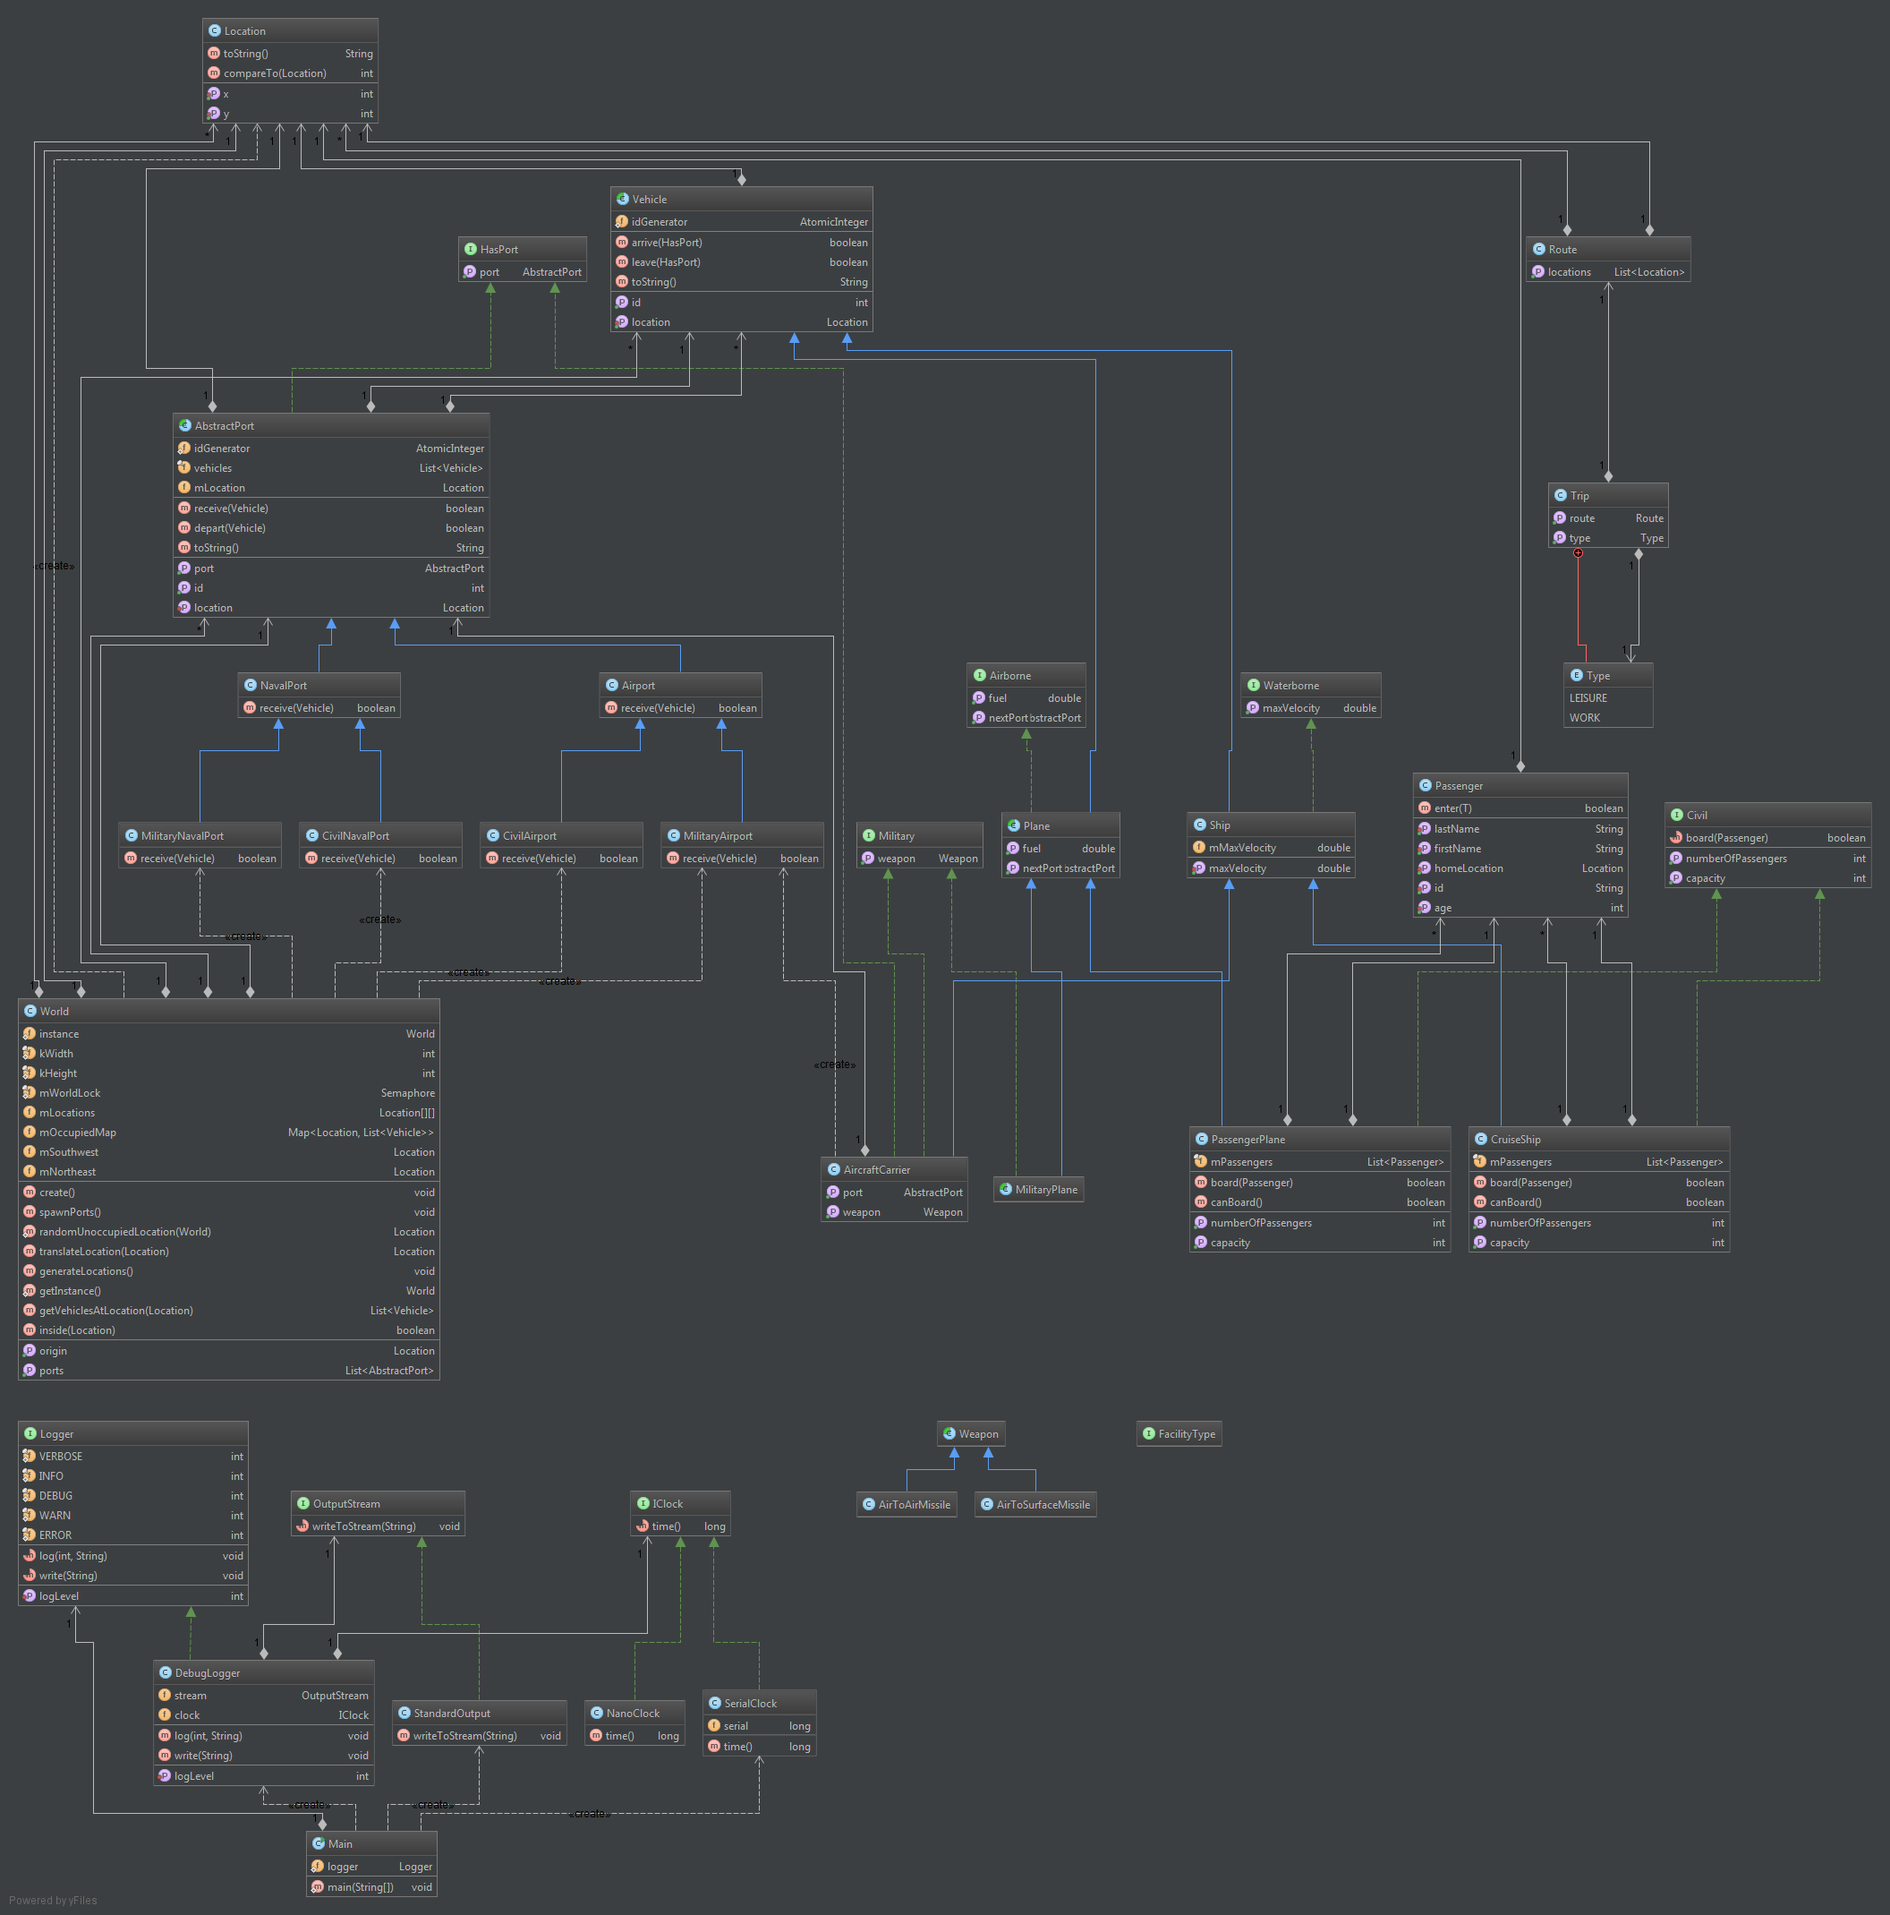
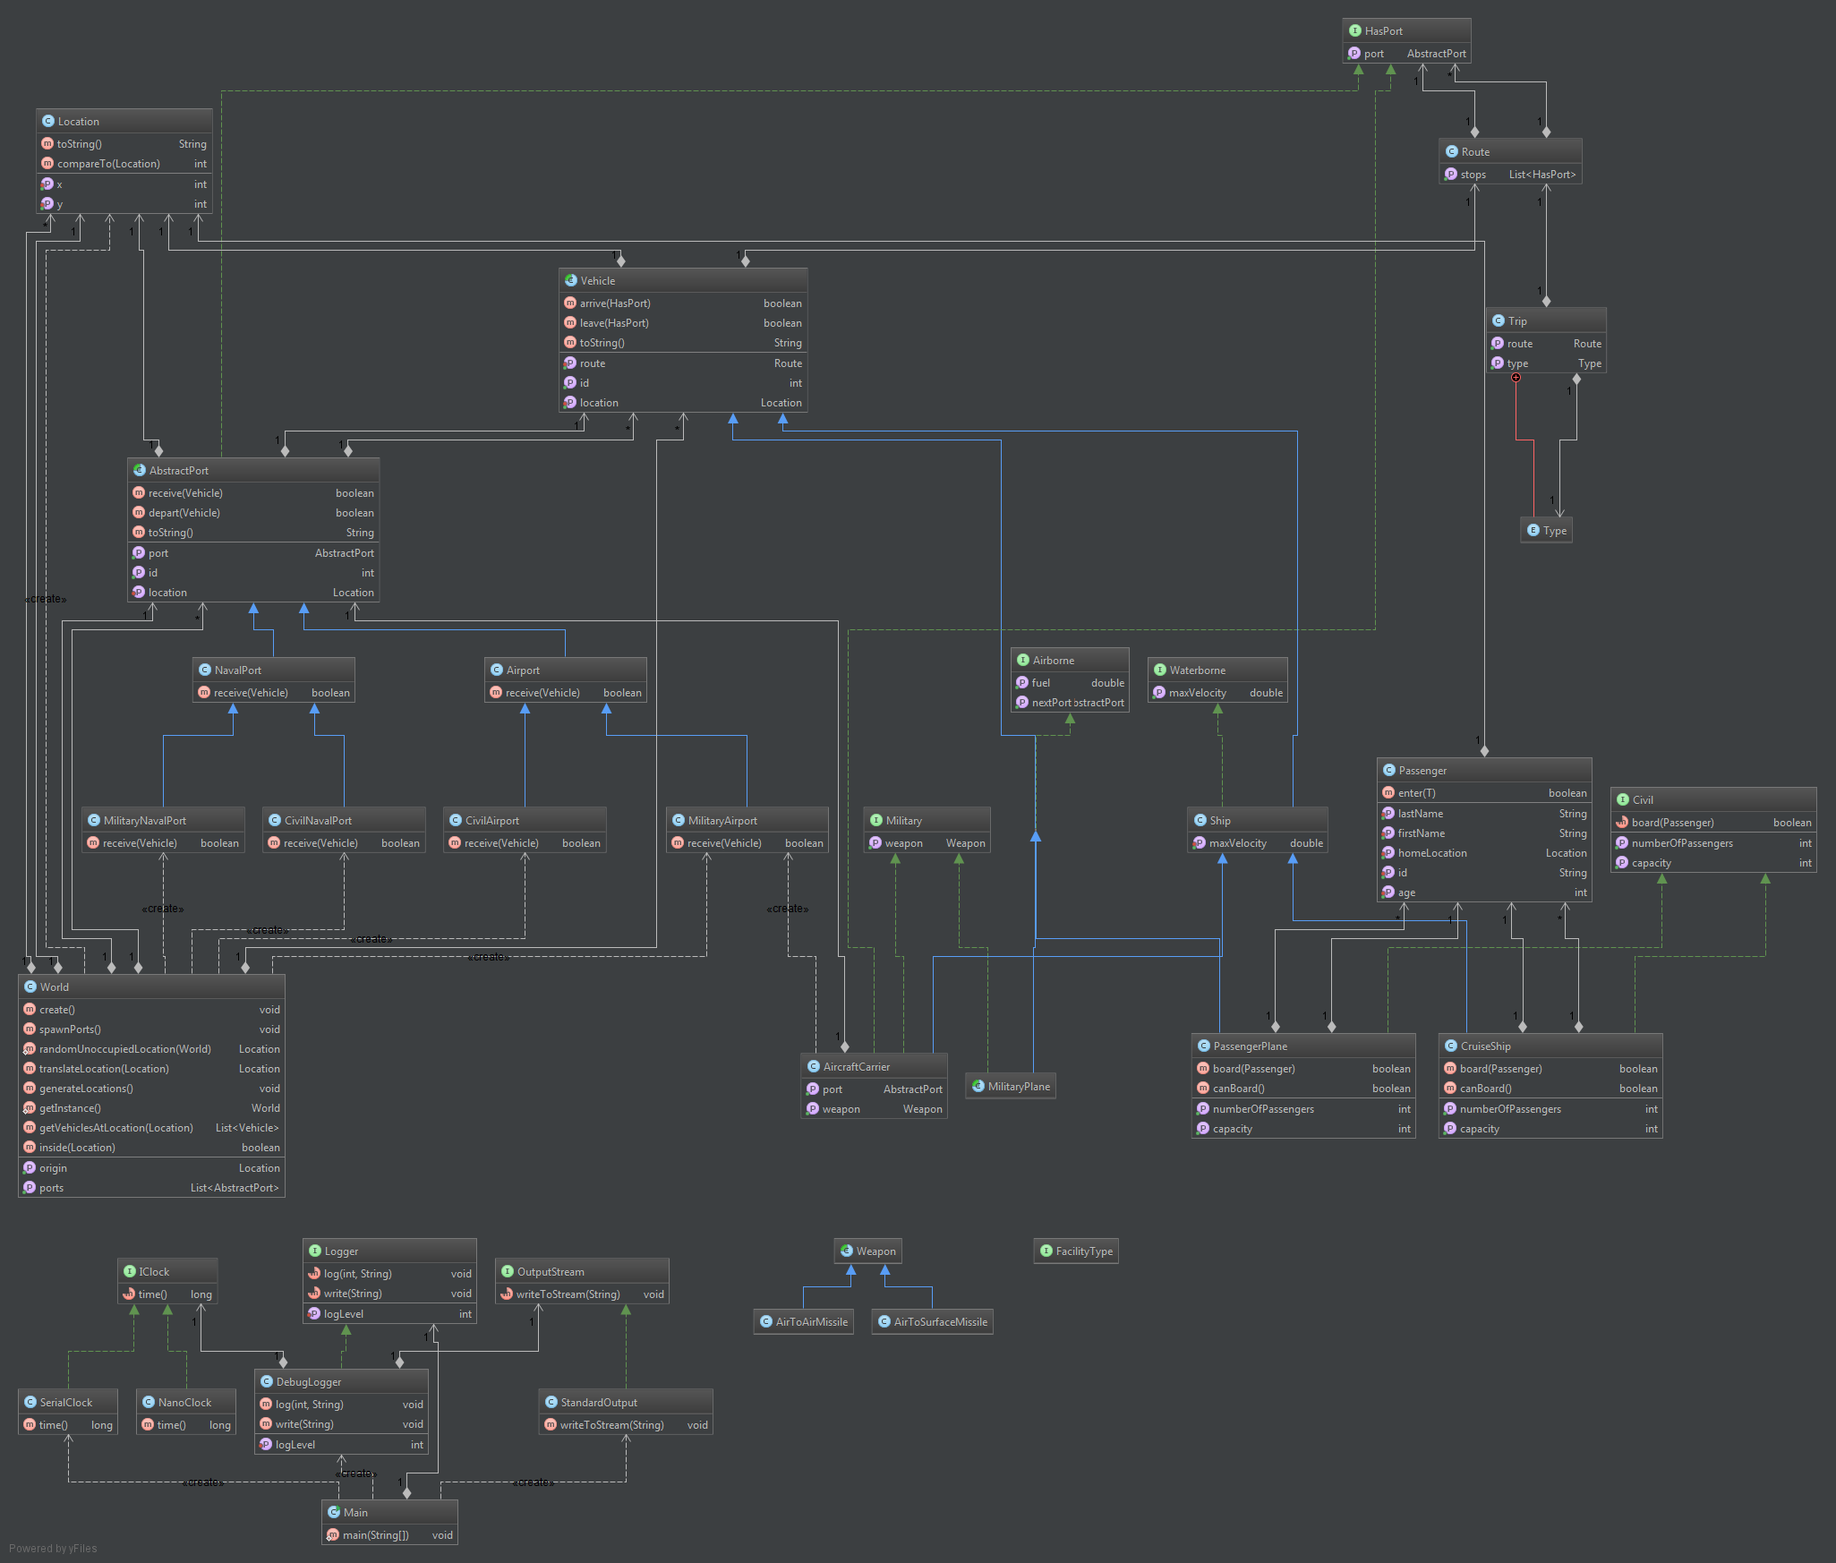
Updated Vehicles to have a Route

diff --git a/src/com/mewa/data/vehicles/Vehicle.java b/src/com/mewa/data/vehicles/Vehicle.java
@@ -2,6 +2,7 @@ package com.mewa.data.vehicles;
 
 import com.mewa.Main;
 import com.mewa.data.location.Location;
+import com.mewa.data.location.Route;
 import com.mewa.data.passengers.Passenger;
 import com.mewa.data.ports.HasPort;
 import com.mewa.utils.i.Logger;
@@ -19,6 +20,7 @@ public abstract class Vehicle {
 
     private int mId = idGenerator.getAndIncrement();
     private Location mLocation;
+    private Route mRoute;
 
     public boolean arrive(HasPort port) {
         Main.logger.log(Logger.VERBOSE, this + " is arriving at " + port.getPort());
@@ -45,5 +47,13 @@ public abstract class Vehicle {
 
     public void setLocation(Location location) {
         this.mLocation = location;
+    }
+
+    public Route getRoute() {
+        return mRoute;
+    }
+
+    public void setRoute(Route route) {
+        this.mRoute = route;
     }
 }

diff --git a/src/com/mewa/data/location/Route.java b/src/com/mewa/data/location/Route.java
@@ -1,5 +1,7 @@
 package com.mewa.data.location;
 
+import com.mewa.data.ports.HasPort;
+
 import java.util.ArrayList;
 import java.util.Collections;
 import java.util.List;
@@ -8,9 +10,9 @@ import java.util.List;
  * Created by Mewa on 2015-10-10.
  */
 public class Route {
-    private final List<Location> locations = Collections.synchronizedList(new ArrayList<Location>());
+    private final List<HasPort> locations = Collections.synchronizedList(new ArrayList<HasPort>());
 
-    public List<Location> getLocations() {
+    public List<HasPort> getStops() {
         return locations;
     }
 }
